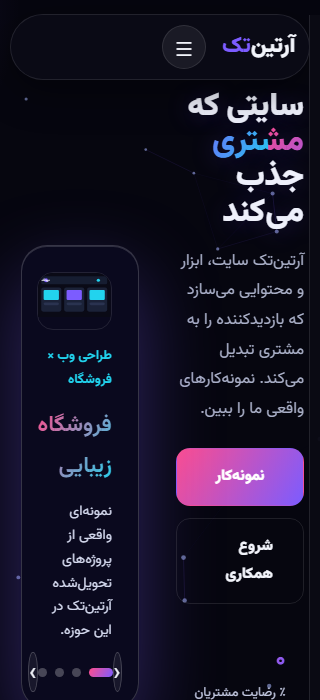
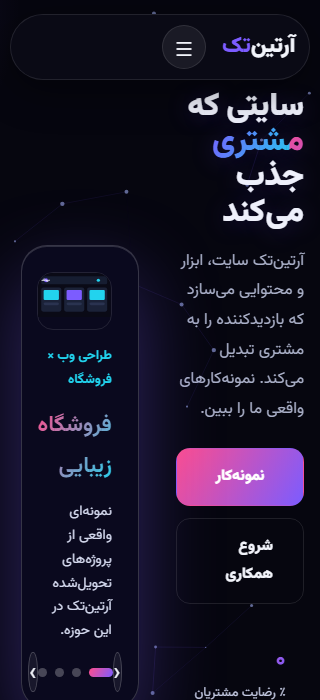
v37: remove all emoji (✅⚠) from content, stricter audit

diff --git a/full_audit.js b/full_audit.js
@@ -1,0 +1,111 @@
+const { chromium } = require('playwright');
+const fs = require('fs');
+
+(async () => {
+  const browser = await chromium.launch({ args: ['--no-sandbox'] });
+  const report = { pass: [], fail: [], warnings: [] };
+  const log = (type, msg) => report[type].push(msg);
+
+  // ===== 1. LOCAL FILE SYNTAX =====
+  try { require('child_process').execSync('node --check main.js'); log('pass', 'main.js syntax OK'); }
+  catch(e){ log('fail', 'main.js syntax error: '+e.message); }
+
+  // ===== 2. LOAD LIVE SITE =====
+  const page = await browser.newPage({ viewport: { width: 1440, height: 900 } });
+  const consoleErrors = [];
+  page.on('console', m => { if (m.type()==='error') consoleErrors.push(m.text()); });
+  page.on('pageerror', e => consoleErrors.push('PAGEERR: '+e.message));
+  await page.goto('https://mailin-sharin.github.io/artintech/?v=36', { waitUntil: 'networkidle' });
+  await page.waitForTimeout(2500);
+
+  // ===== 3. RENDER CHECK (all sections populated) =====
+  const render = await page.evaluate(() => {
+    const c = id => document.getElementById(id)?.children.length || 0;
+    return {
+      services: c('servicesGrid'),
+      work: c('workStrip'),
+      store: c('storeGrid'),
+      training: c('trainingGrid'),
+      steps: c('stepsGrid'),
+      carousel: document.querySelectorAll('#hcTrack .hc-slide').length,
+      heroH1: document.querySelector('.hero-pitch h1')?.innerText,
+      footer: document.querySelector('.footer-bottom')?.textContent,
+      studio: document.body.innerText.includes('استودیو خدمات دیجیتال'),
+      emoji: /[\u{1F000}-\u{1FAFF}\u{2600}-\u{27BF}\u{2B00}-\u{2BFF}\u{FE0F}]/u.test(document.body.innerText.replace(/★/g,''))
+    };
+  });
+  log(render.services===12?'pass':'fail', `services rendered: ${render.services}/12`);
+  log(render.work===4?'pass':'fail', `work rendered: ${render.work}/4`);
+  log(render.store===4?'pass':'fail', `store rendered: ${render.store}/4`);
+  log(render.training===3?'pass':'fail', `training rendered: ${render.training}/3`);
+  log(render.steps===4?'pass':'fail', `steps rendered: ${render.steps}/4`);
+  log(render.carousel===4?'pass':'fail', `carousel slides: ${render.carousel}/4`);
+  log(render.studio?'fail':'pass', `studio text removed: ${!render.studio}`);
+  log(render.emoji?'fail':'pass', `no emoji in content: ${!render.emoji}`);
+
+  // ===== 4. INTERACTIONS =====
+  // 4a. service card click -> modal
+  await page.click('#servicesGrid .service');
+  await page.waitForTimeout(400);
+  const modalOpen = await page.evaluate(() => document.getElementById('modal')?.classList.contains('open'));
+  log(modalOpen?'pass':'fail', `service card opens modal: ${modalOpen}`);
+  await page.click('#modalClose'); await page.waitForTimeout(300);
+
+  // 4b. mobile menu
+  await page.setViewportSize({ width: 390, height: 844 });
+  await page.waitForTimeout(300);
+  await page.click('#menuBtn'); await page.waitForTimeout(500);
+  const menuOpen = await page.evaluate(() => document.getElementById('navLinks')?.classList.contains('open'));
+  log(menuOpen?'pass':'fail', `mobile menu opens: ${menuOpen}`);
+  await page.evaluate(() => document.getElementById('navLinks').classList.remove('open'));
+  await page.waitForTimeout(300);
+
+  // 4c. carousel next
+  await page.setViewportSize({ width: 1440, height: 900 });
+  await page.waitForTimeout(300);
+  const beforeIdx = await page.evaluate(() => document.querySelector('#hcDots span.active')?.textContent);
+  await page.click('#hcNext'); await page.waitForTimeout(700);
+  const afterIdx = await page.evaluate(() => document.querySelector('#hcDots span.active')?.textContent);
+  log(beforeIdx!==afterIdx?'pass':'fail', `carousel navigates: ${beforeIdx} -> ${afterIdx}`);
+
+  // ===== 5. RESPONSIVE OVERFLOW (multiple sizes) =====
+  const sizes = [{n:'iPhone12',w:390},{n:'360',w:360},{n:'320',w:320},{n:'768',w:768},{n:'1024',w:1024}];
+  for (const s of sizes) {
+    await page.setViewportSize({ width: s.w, height: 800 });
+    await page.waitForTimeout(400);
+    const bad = await page.evaluate((cw) => {
+      const out=[]; document.querySelectorAll('*').forEach(el=>{
+        const r=el.getBoundingClientRect(); const cs=getComputedStyle(el);
+        if(cs.position==='fixed') return;
+        let p=el; while(p){ if(p.id==='navLinks'&&!p.classList.contains('open')) return; p=p.parentElement; }
+        if(r.right>cw+1 && r.width>0) out.push((el.className||el.tagName).toString().slice(0,30));
+      }); return out;
+    }, s.w);
+    log(bad.length===0?'pass':'fail', `${s.n} (${s.w}px) overflow: ${bad.length? bad.slice(0,3).join(', ') : 'CLEAN'}`);
+  }
+
+  // ===== 6. ACCESSIBILITY / CONTRAST =====
+  const a11y = await page.evaluate(() => {
+    const links = document.querySelectorAll('a, button');
+    let noAria = 0;
+    links.forEach(l => { if(!l.getAttribute('aria-label') && !l.textContent.trim()) noAria++; });
+    const imgs = document.querySelectorAll('img');
+    return { interactiveCount: links.length, emptyInteractive: noAria, imgCount: imgs.length };
+  });
+  log(a11y.emptyInteractive===0?'pass':'warn', `empty interactive elements: ${a11y.emptyInteractive}`);
+
+  // ===== 7. CONSOLE ERRORS =====
+  log(consoleErrors.length===0?'pass':'fail', `console errors: ${consoleErrors.length? consoleErrors.slice(0,3).join(' | ') : 'none'}`);
+
+  // ===== SUMMARY =====
+  console.log('\n========== ARTINTECH AUDIT REPORT ==========');
+  console.log(`\nPASS (${report.pass.length}):`);
+  report.pass.forEach(p => console.log('  ✓ '+p));
+  if (report.warnings.length) { console.log(`\nWARNINGS (${report.warnings.length}):`); report.warnings.forEach(w => console.log('  ⚠ '+w)); }
+  if (report.fail.length) { console.log(`\nFAIL (${report.fail.length}):`); report.fail.forEach(f => console.log('  ✗ '+f)); }
+  console.log(`\nSCORE: ${report.pass.length}/${report.pass.length+report.fail.length} checks passed`);
+  console.log('=============================================');
+
+  await browser.close();
+  fs.writeFileSync('audit_report.txt', JSON.stringify(report,null,2));
+})();

diff --git a/main.js b/main.js
@@ -3,7 +3,7 @@ document.body.classList.add('js-ready');
 const DATA_BASE='data/';
 const _cache={};
 async function loadJSON(f){if(_cache[f])return _cache[f];try{const r=await fetch(DATA_BASE+f);if(!r.ok){showDataError();return null;}const j=await r.json();_cache[f]=j;return j;}catch(e){showDataError();return null;}}
-function showDataError(){document.querySelectorAll('#servicesGrid,#workStrip,#storeGrid,#trainingGrid,#stepsGrid').forEach(g=>{if(g&&g.children.length===0)g.innerHTML='<p style="color:var(--muted);grid-column:1/-1">⚠ سایت باید روی سرور باز شود.</p>';});}
+function showDataError(){document.querySelectorAll('#servicesGrid,#workStrip,#storeGrid,#trainingGrid,#stepsGrid').forEach(g=>{if(g&&g.children.length===0)g.innerHTML='<p style="color:var(--muted);grid-column:1/-1">سایت باید روی سرور باز شود.</p>';});}
 
 /* ---- canvas: starfield + mouse connect ---- */
 const canvas=document.getElementById('bg'),ctx=canvas.getContext('2d');
@@ -94,7 +94,7 @@ function mockSVG(kind){const f='#0a0a16',c='#7c5cff',c2='#22d3ee',m='#9aa3c0';
 function sample(id){const map={web:mockSVG('land'),python:mockSVG('dash'),video:mockSVG('app'),translate:mockSVG('land'),automation:mockSVG('dash'),seo:mockSVG('dash'),ai:mockSVG('shop'),content:mockSVG('land'),chatbot:mockSVG('app'),data:mockSVG('dash'),selfdev:mockSVG('land'),training:mockSVG('shop')};document.getElementById('modalMedia').innerHTML=map[id]||mockSVG('land');}
 
 const form=document.getElementById('contactForm');
-if(form)form.addEventListener('submit',e=>{e.preventDefault();const name=document.getElementById('cName').value.trim(),phone=document.getElementById('cPhone').value.trim(),service=document.getElementById('cService').value,msg=document.getElementById('cMsg').value.trim();window.location.href='mailto:info@artintech.ir?subject='+encodeURIComponent('درخواست از آرتینتک - '+name)+'&body='+encodeURIComponent(`نام: ${name}\nتلفن: ${phone}\nخدمت: ${service}\nپیام: ${msg}`);document.getElementById('formNote').textContent='درخواست آماده ارسال شد ✅';if(navigator.clipboard)navigator.clipboard.writeText(`نام: ${name} | ${service}`).catch(()=>{});e.target.reset();});
+if(form)form.addEventListener('submit',e=>{e.preventDefault();const name=document.getElementById('cName').value.trim(),phone=document.getElementById('cPhone').value.trim(),service=document.getElementById('cService').value,msg=document.getElementById('cMsg').value.trim();window.location.href='mailto:info@artintech.ir?subject='+encodeURIComponent('درخواست از آرتینتک - '+name)+'&body='+encodeURIComponent(`نام: ${name}\nتلفن: ${phone}\nخدمت: ${service}\nپیام: ${msg}`);document.getElementById('formNote').textContent='درخواست آماده ارسال شد';if(navigator.clipboard)navigator.clipboard.writeText(`نام: ${name} | ${service}`).catch(()=>{});e.target.reset();});
 
 renderServices();renderWork();renderStore();renderTraining();renderSteps();
 setTimeout(()=>document.querySelectorAll('.reveal:not(.in)').forEach(el=>el.classList.add('in')),1300);

diff --git a/index.html b/index.html
@@ -9,8 +9,8 @@
   <link rel="preconnect" href="https://fonts.googleapis.com" />
   <link rel="preconnect" href="https://fonts.gstatic.com" crossorigin />
   <link href="https://fonts.googleapis.com/css2?family=Vazirmatn:wght@400;700;900&display=swap" rel="stylesheet" />
-  <link rel="stylesheet" href="styles.css?v=36" />
-  <script src="main.js?v=36" defer></script>
+  <link rel="stylesheet" href="styles.css?v=37" />
+  <script src="main.js?v=37" defer></script>
 </head>
 <body>
   <canvas id="bg"></canvas>
@@ -124,10 +124,10 @@
         <h2>آرتینتک کیست؟</h2>
         <p>آرتینتک تیمی از طراحان، برنامهنویسان و تولیدکنندگان محتواست که کسبوکارهای ایرانی را با ابزارهای دیجیتال بهروز میکند. ما پیچیدگی را حذف میکنیم و روی نتیجه متمرکز میشویم: سایتی که میفروشد، محتوایی که جذب میکند، و سیستمی که کار میکند.</p>
         <ul class="checks">
-          <li>✅ طراحی مدرن و ریسپانسیو</li>
-          <li>✅ کد تمیز و قابل نگهداری</li>
-          <li>✅ تحویل بهموقع و پشتیبانی</li>
-          <li>✅ جدیدترین ابزارهای دیجیتال</li>
+          <li>طراحی مدرن و ریسپانسیو</li>
+          <li>کد تمیز و قابل نگهداری</li>
+          <li>تحویل بهموقع و پشتیبانی</li>
+          <li>جدیدترین ابزارهای دیجیتال</li>
         </ul>
       </div>
       <div class="about-card reveal">

diff --git a/audit_mobile.js b/audit_mobile.js
@@ -17,8 +17,10 @@ const { chromium } = require('playwright');
       document.querySelectorAll('*').forEach(el => {
         const r = el.getBoundingClientRect();
         const cs = getComputedStyle(el);
-        // ignore fixed elements (nav drawer, cursor glow) that are intentionally off-screen
         if (cs.position === 'fixed') return;
+        // skip elements inside a closed off-screen nav drawer
+        let p = el;
+        while (p) { if (p.id === 'navLinks' && !p.classList.contains('open')) return; p = p.parentElement; }
         if (r.right > cw + 1 && r.width > 0) {
           out.push({
             cls: el.className && el.className.toString().slice(0, 40),
